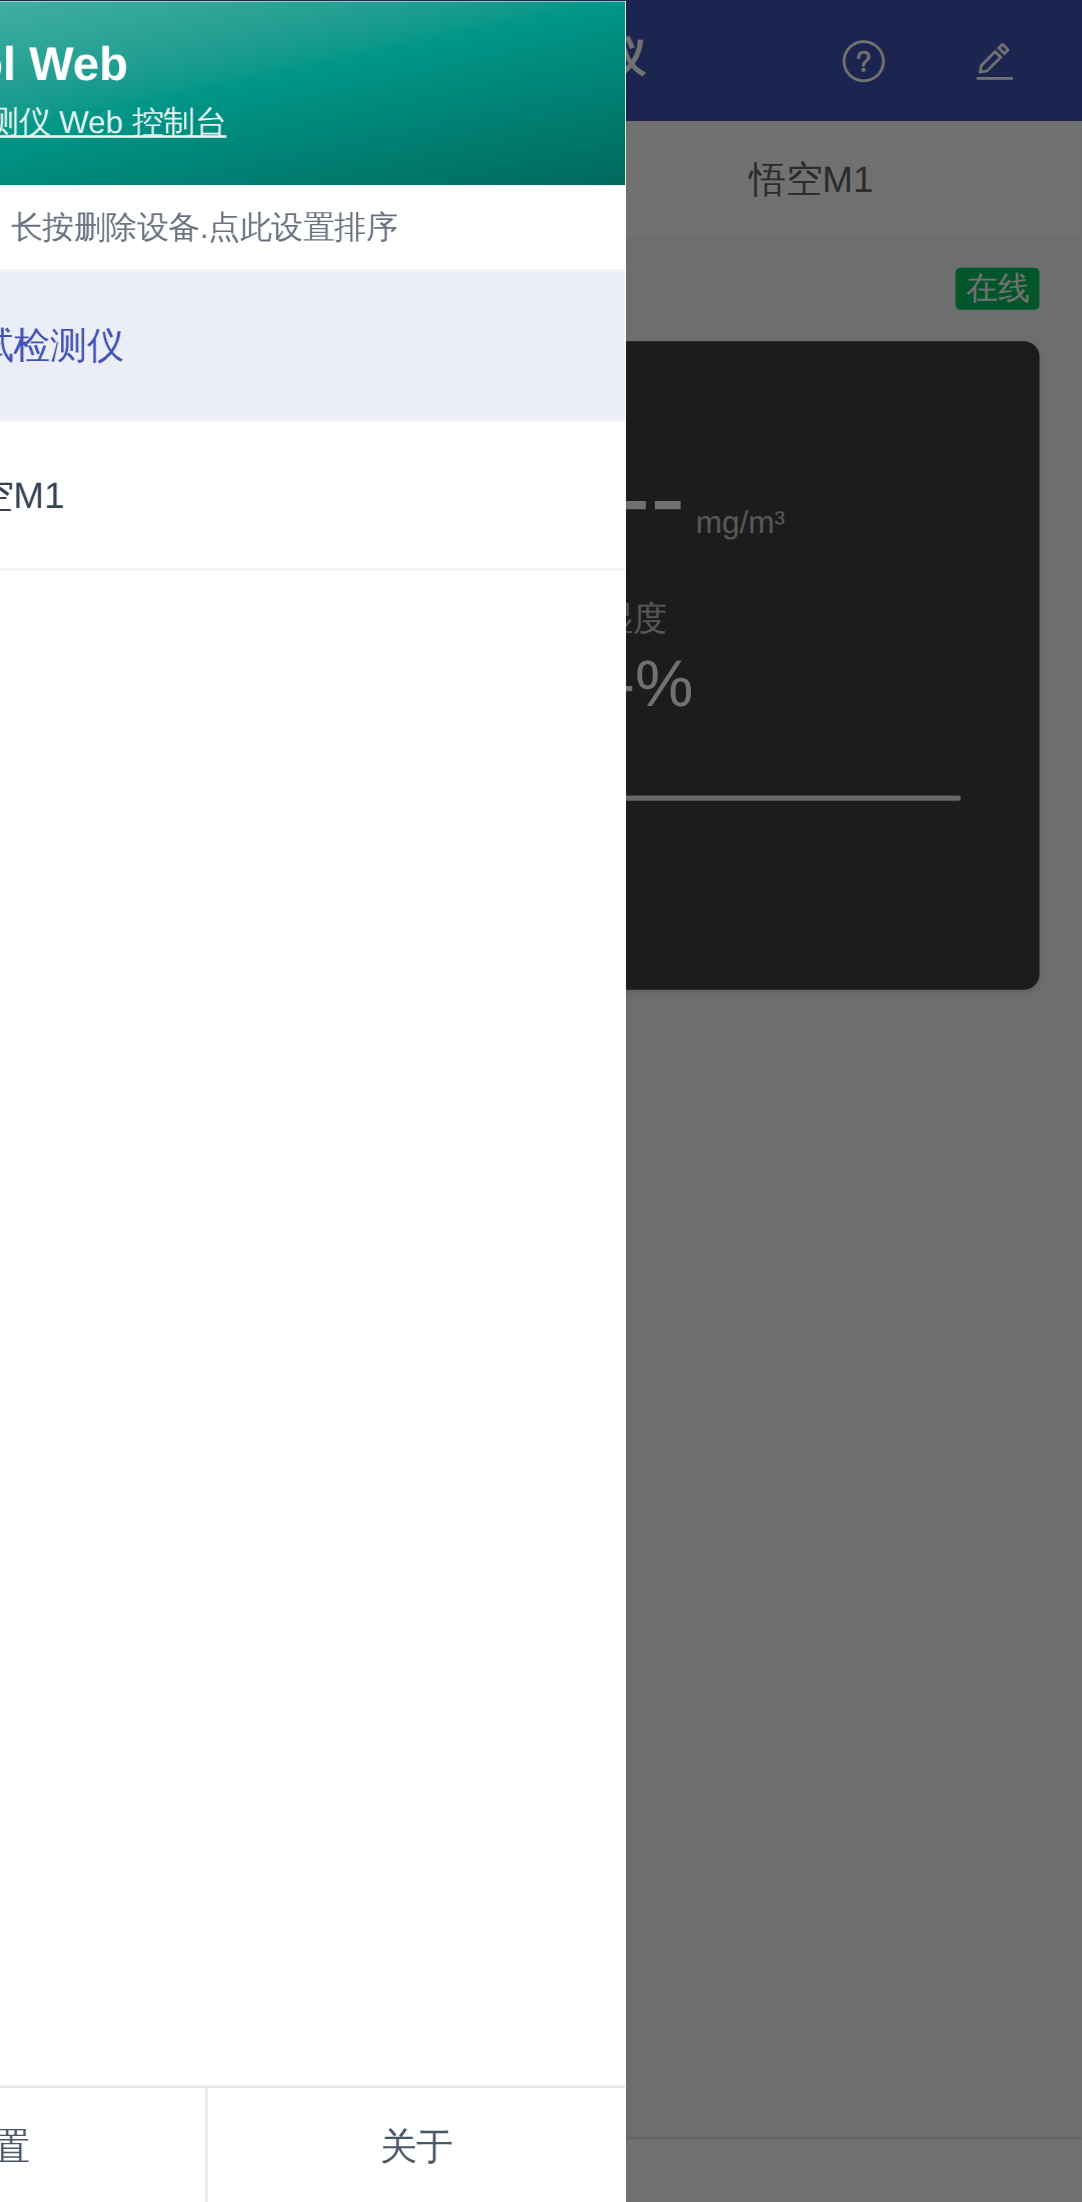
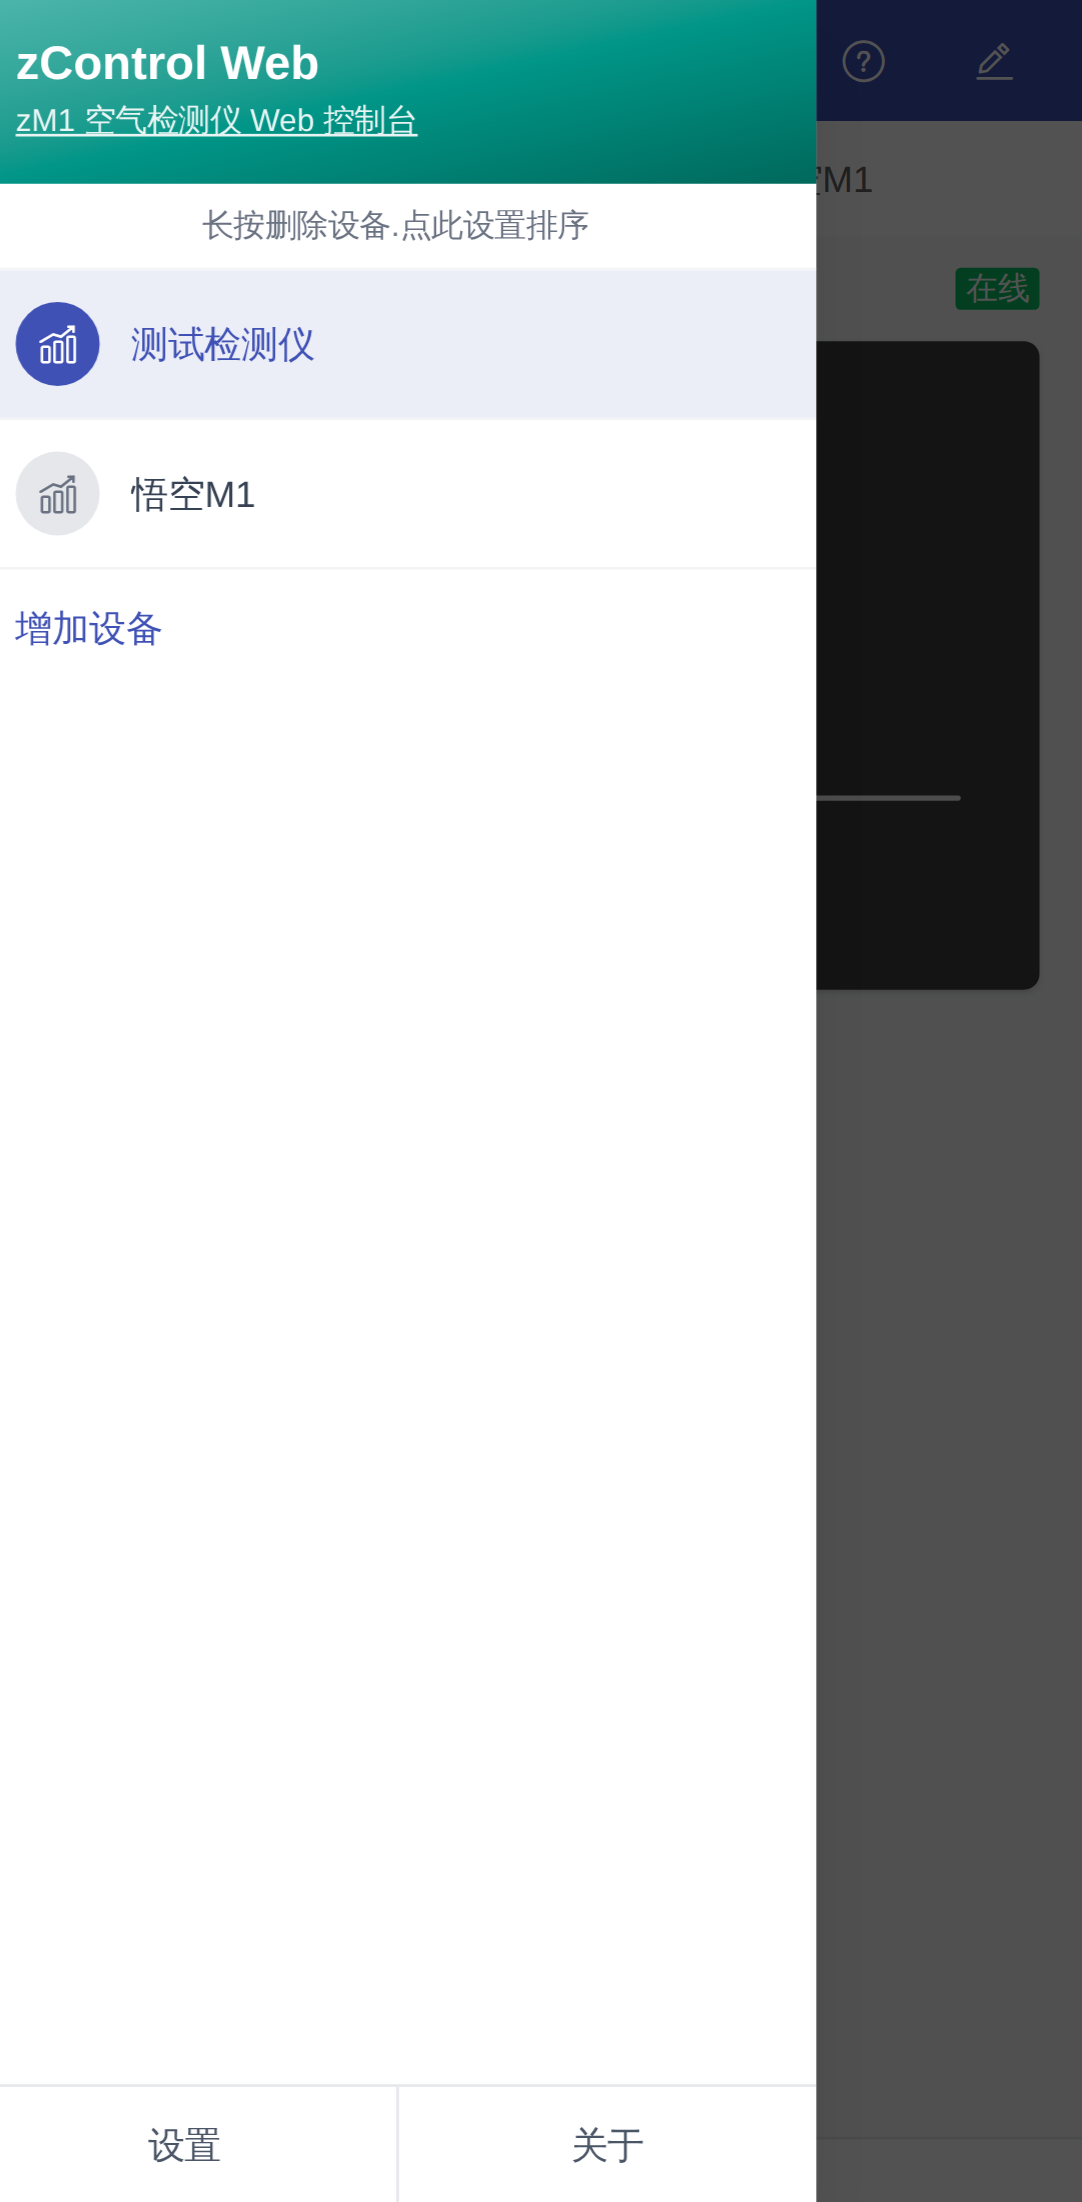
fix: 抽屉与蒙层改为同帧出现（面板常驻绘制，纯 transform 平移）
上一版只关掉了 Vant Popup 的懒渲染，面板关闭态仍是 display:none：
打开瞬间浏览器要重新布局并绘制整棵子树，这段时间只有蒙层在动。
CPU 降速 6 倍（模拟手机）实测：二次打开时蒙层 7ms 就出现，面板到 174ms 才有盒子，差 167ms。

改为自绘抽屉与蒙层：两块都常驻 DOM，只用 opacity / transform 动画，
打开时不再有隐藏子树的布局绘制开销。

CPU 降速 6 倍实测（间隔 = 面板开始动画时间 − 蒙层开始时间）：
  改前 首次 18ms / 二次 167ms
  改后 首次 0ms  / 二次 0ms

Vant Popup 换掉后，蒙层点击关闭、aria-hidden 一并自己处理；抽屉宽度与外层留白不变。

diff --git a/apps/web/src/pages/MainShell.vue b/apps/web/src/pages/MainShell.vue
@@ -118,13 +118,20 @@ watch(
       <van-button type="primary" size="small" class="w-32" @click="onAdd">增加设备</van-button>
     </van-empty>
 
-    <!-- 抽屉：关掉懒渲染，面板与蒙层同时出现（首次打开不会只有蒙层） -->
-    <van-popup
-      v-model:show="drawer"
-      position="left"
-      :style="{ width: '78%', height: '100%' }"
-      :lazy-render="false"
-      class="p-0!"
+    <!-- 抽屉与蒙层：两者都常驻渲染，只用 opacity / transform 做动画。
+         用 Vant Popup 时面板关闭态是 display:none，打开瞬间浏览器要重新布局绘制整棵子树，
+         这段时间只有蒙层在动（CPU 慢时实测差 ~170ms），所以改成常驻绘制、纯 transform 平移 -->
+    <div
+      data-testid="drawer-overlay"
+      class="fixed inset-0 z-[2000] bg-black/70 transition-opacity duration-300"
+      :class="drawer ? 'opacity-100' : 'pointer-events-none opacity-0'"
+      @click="drawer = false"
+    />
+    <aside
+      data-testid="drawer-panel"
+      class="fixed inset-y-0 left-0 z-[2001] w-[78%] bg-white shadow-xl transition-transform duration-300"
+      :class="drawer ? 'translate-x-0' : '-translate-x-full'"
+      :aria-hidden="drawer ? 'false' : 'true'"
     >
       <DeviceDrawer
         :active-mac="current?.mac ?? ''"
@@ -161,6 +168,6 @@ watch(
           }
         "
       />
-    </van-popup>
+    </aside>
   </div>
 </template>
